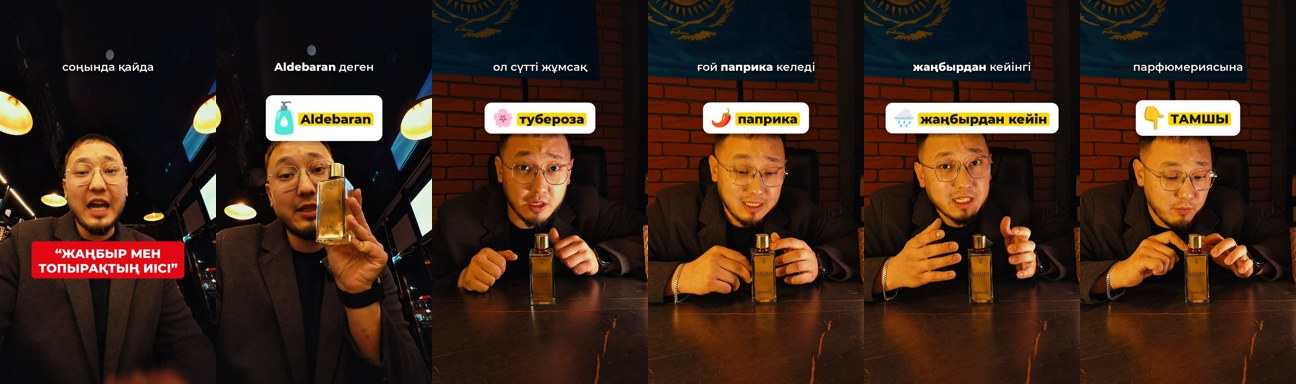
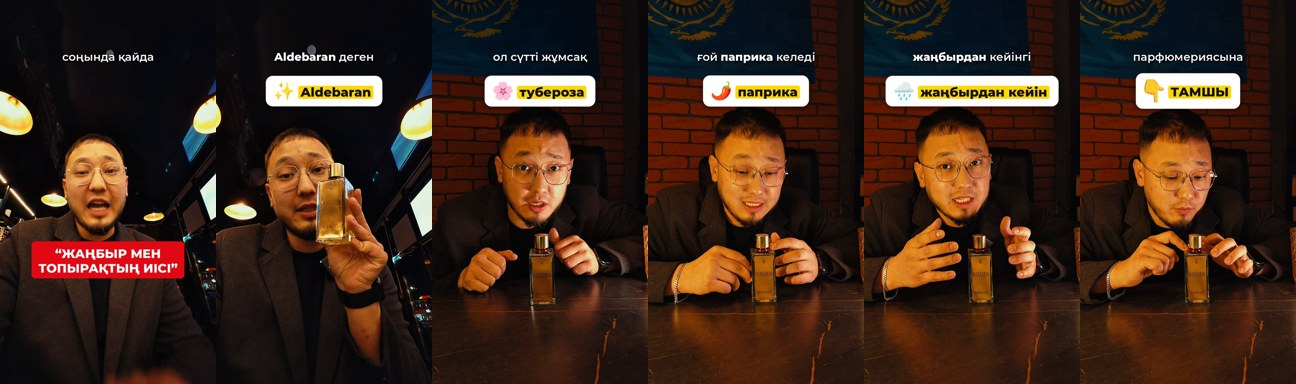
maxkallaway: baqdat2 — бекітілген мәтін, карточка жоғары
Claude-Session: https://claude.ai/code/session_01RrXk5948k87XBUeAUoRL5x

diff --git a/maxkallaway/projects/baqdat2/videos.py b/maxkallaway/projects/baqdat2/videos.py
@@ -1,5 +1,5 @@
-# maxkallaway конфигі — baqdat2 (Тамшы парфюмерия, Aldebaran иісі). Мәтін пайдаланушы бекіткенге дейін — жоба.
-CAM_HOOK = dict(y_off=0, hook_x=540, hook_y=1300, sub_y=335)
+# maxkallaway конфигі — baqdat2 (Тамшы парфюмерия, Aldebaran иісі). Мәтін пайдаланушы бекіткен.
+CAM_HOOK = dict(y_off=0, hook_x=540, hook_y=1300, sub_y=285)   # субтитр жоғарырақ — карточка бастың үстіне түспесін
 SCR_HOOK = dict(y_off=0, hook_x=540, hook_y=600, sub_y=335)
 
 VIDEOS = {
@@ -18,8 +18,8 @@ Aldebaran-ның ноталарына келетін болсақ
 ашылау қылып бар ғой
 кейін мате деген керемет және жаңағы көк шай бар ғой
 соның бір нәзіктігін береді иісін бар ғой
-сонан кейін тонка бұршақтары деген ваниль сияқты бір тәттілік беріп тәттілікті тоқтатады
-жалпы гүл атынан сендер қорқақ болмаңдар
+сонан кейін тонка бұршақтары деген ваниль сияқты бір тәттілік беріп тәттілікті толықтырады
+жалпы гүл деп жатырмын ғой сіздер ойлап қалмаңыздар
 бұл женский емес бұл уни иіс
 егер сен парфюм шашып жүрсең бұл иісті түсіну керексің
 бұл қанық бір жаңбырдан кейінгі шығатын иісті және топырақтың иісін

diff --git a/maxkallaway/projects/baqdat2/anims.py b/maxkallaway/projects/baqdat2/anims.py
@@ -1,7 +1,7 @@
 # maxkallaway карточкалары — baqdat2. Бүкіл видео камераға қарап (0–8.3 селфи, 8.3+ үстел басы).
 KEEP = set()
 ANIMS = {
- 1: dict(cam=[(0.0, 66.5)], end=68.85, items=[
+ 1: dict(cam=[(0.0, 66.5)], end=68.85, card_y=455, items=[   # card_y: карточка бастың үстінде, субтитр мен бас арасында
    ('Aldebaran', [('e', '✨'), ('h', 'Aldebaran')], 'pop2'),
    ('тубероза', [('e', '🌸'), ('h', 'тубероза')], 'pop'),
    ('сүтті', [('e', '🥛'), ('t', 'сүтті · кремді')], 'pop'),
